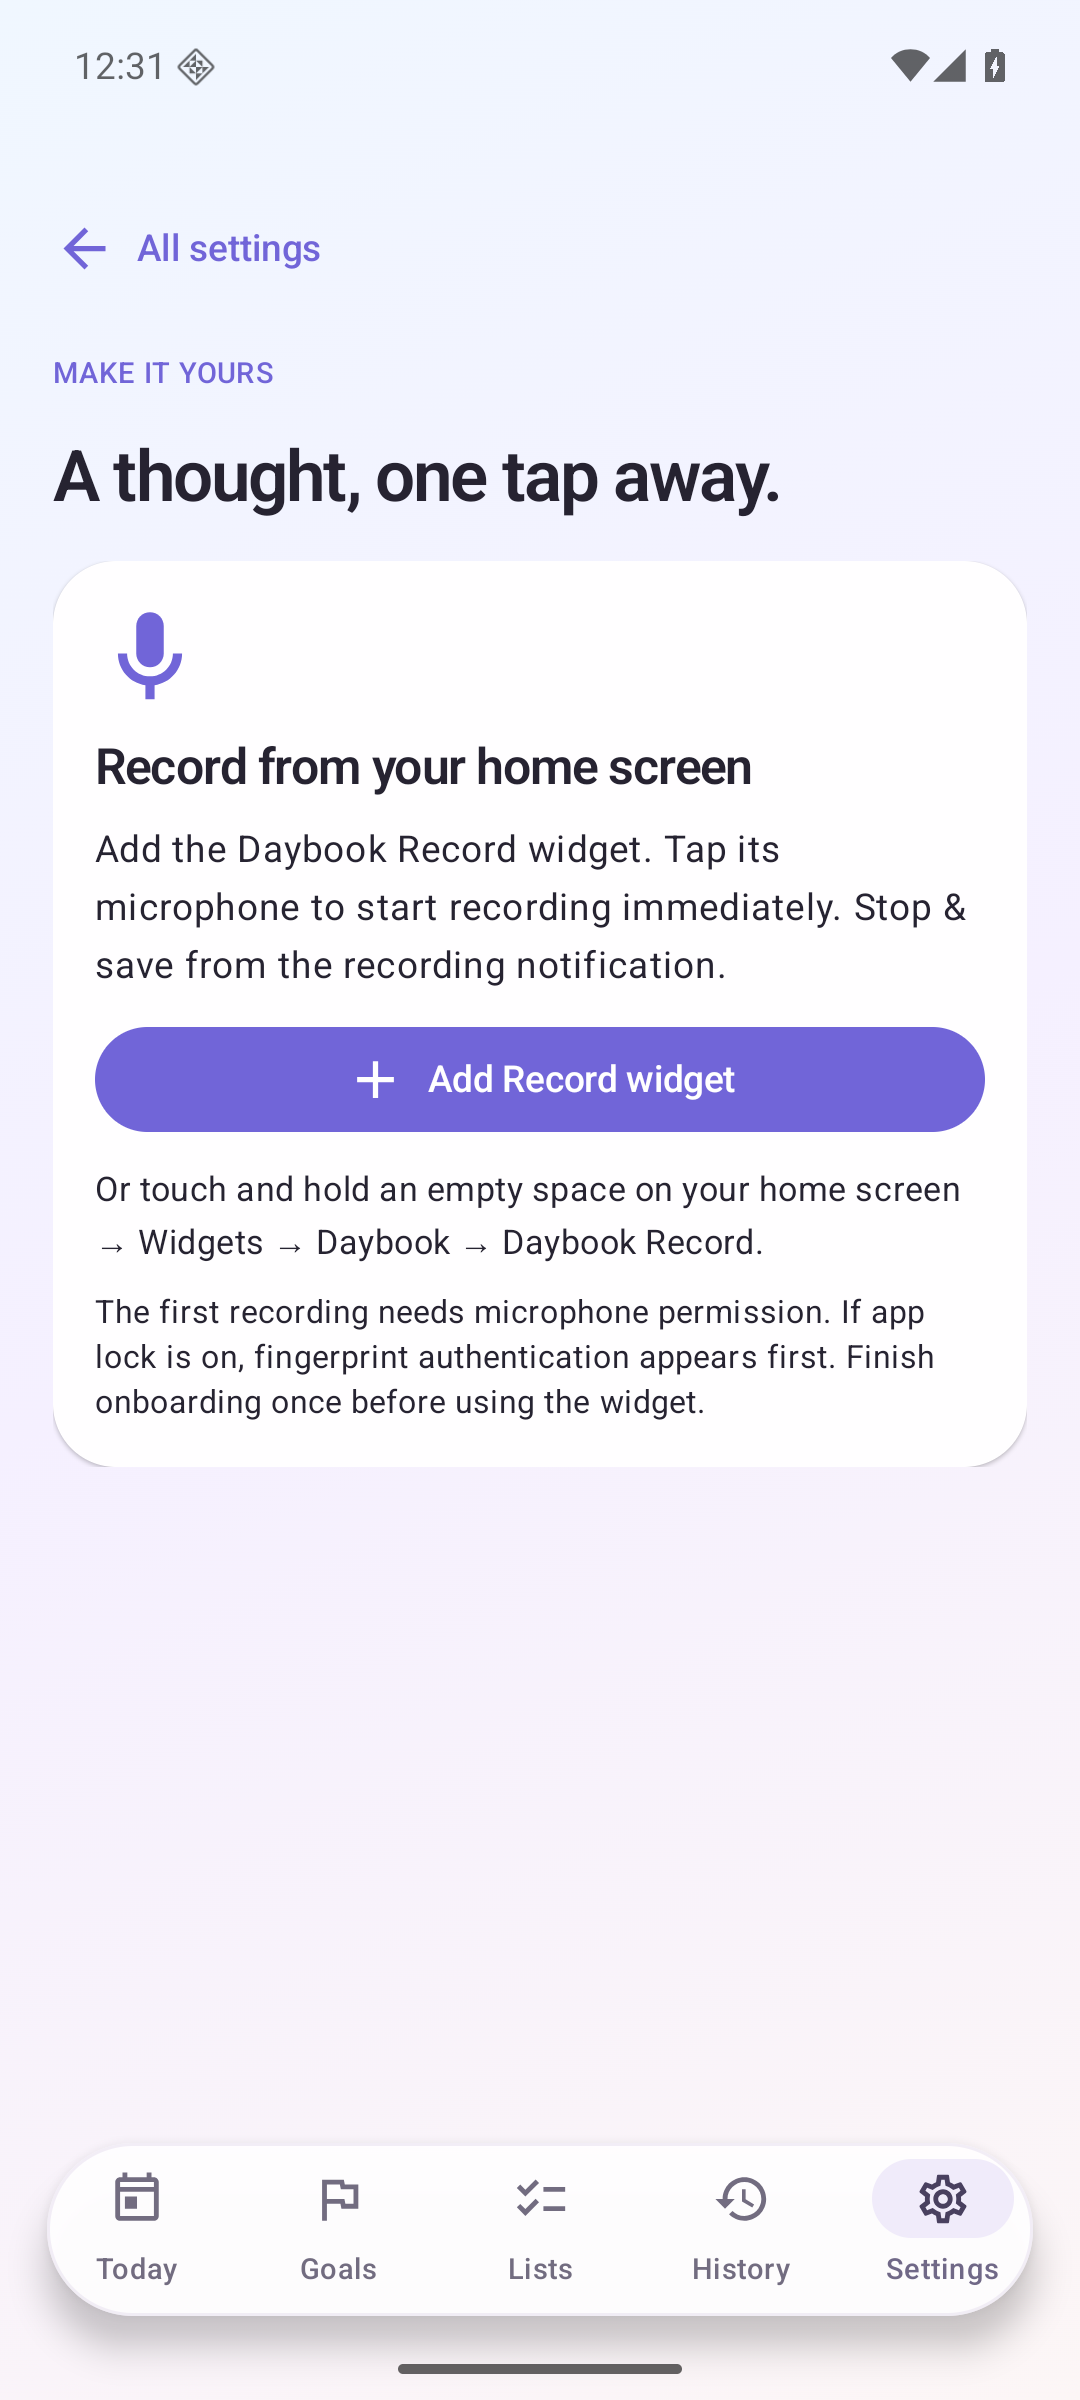
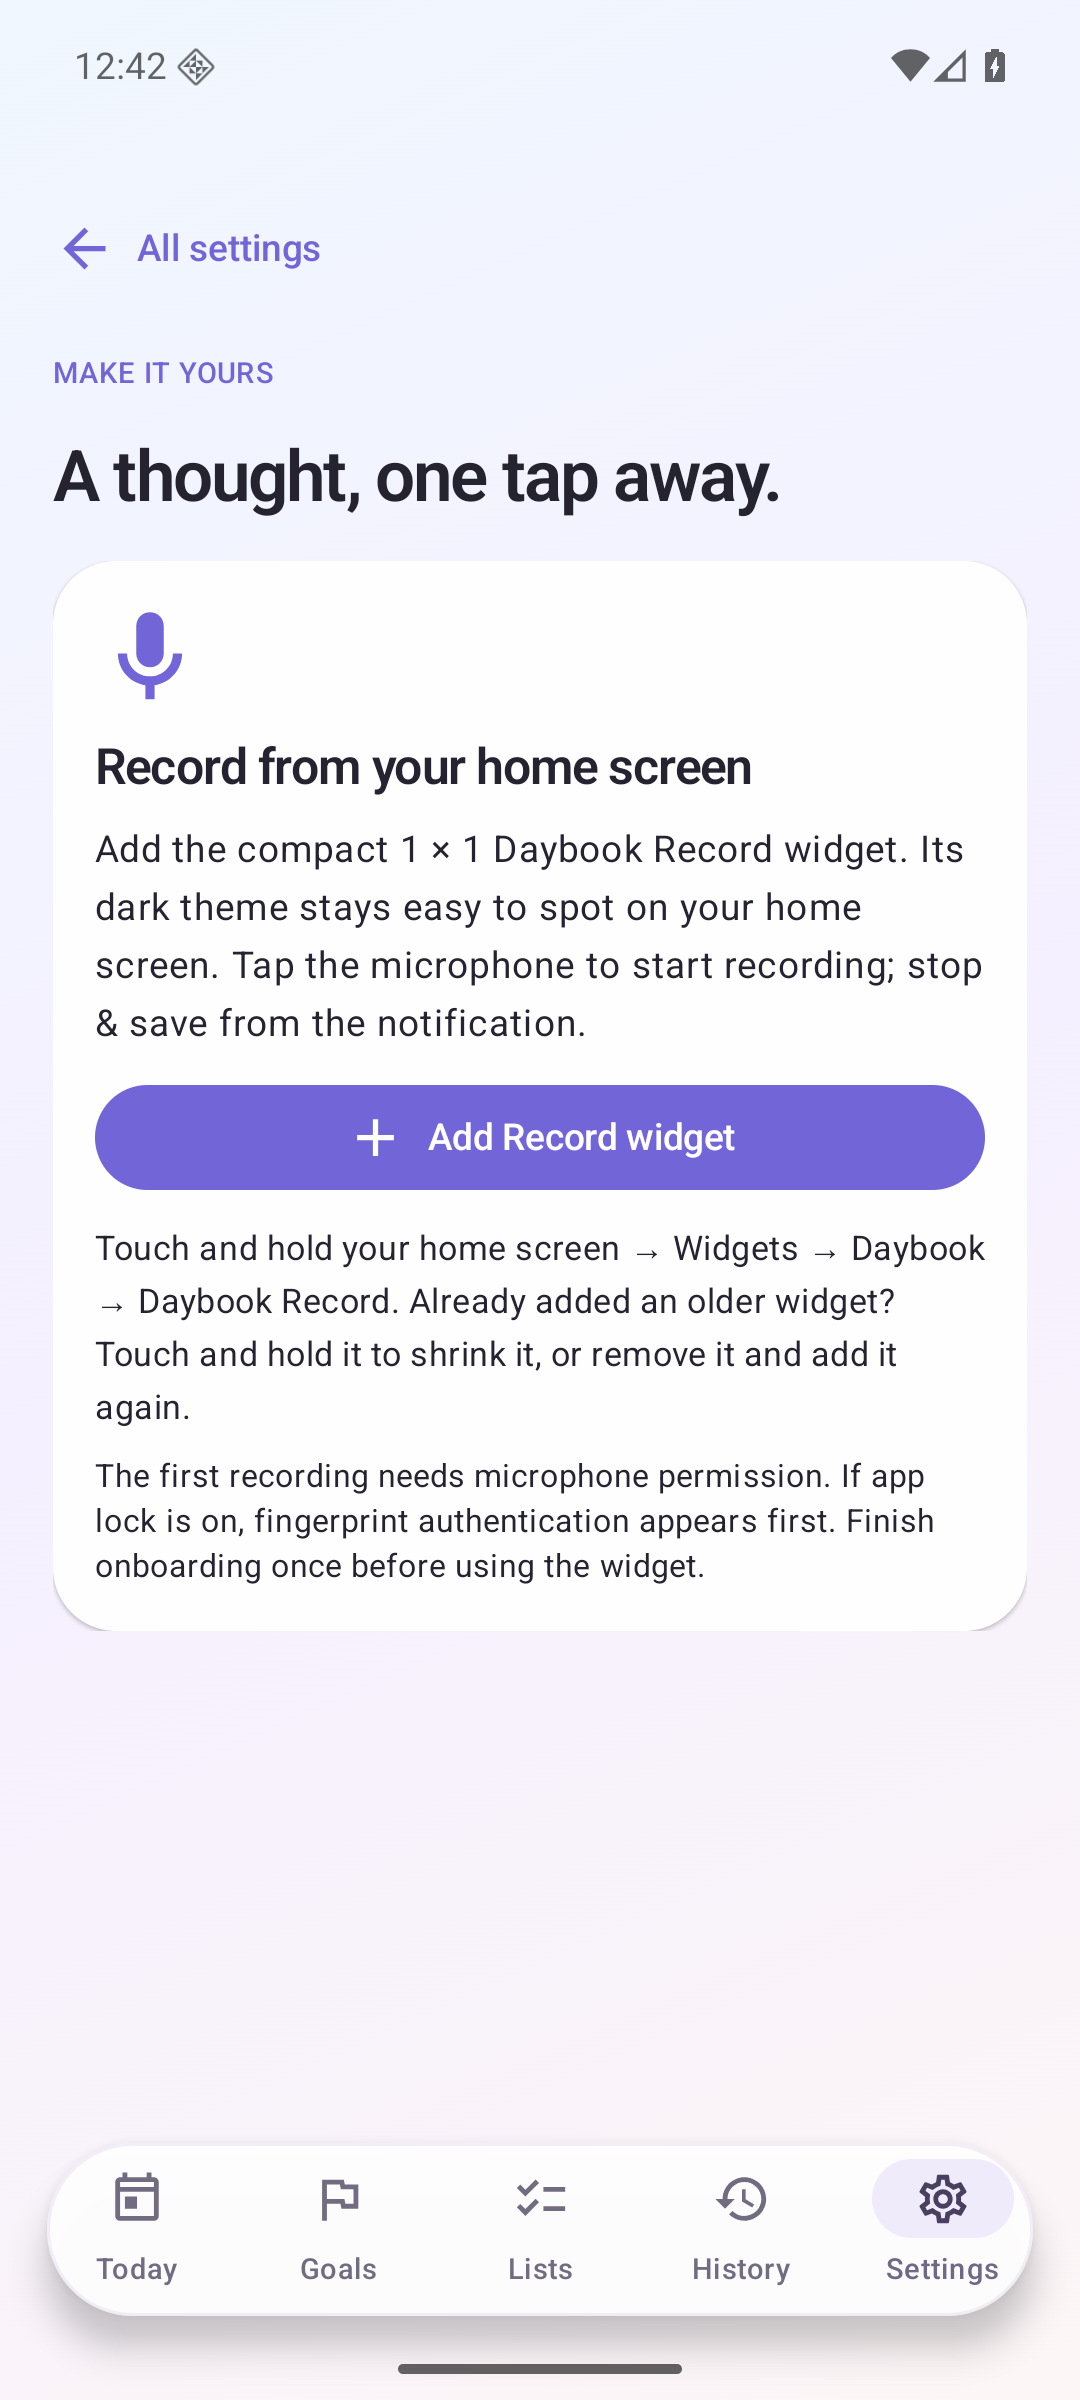
Make home-screen widgets compact and dark

Changed region(s): [[0.0917, 0.3438, 0.9167, 0.6562], [0.7333, 0.625, 0.7639, 0.6562], [0.1222, 0.0, 0.1528, 0.0312]]

diff --git a/app/src/main/java/dev/daybook/app/ui/SettingsScreens.kt b/app/src/main/java/dev/daybook/app/ui/SettingsScreens.kt
@@ -308,9 +308,9 @@ fun SettingsScreen(settings: Settings, hasKey: Boolean, modelReady: Boolean, mod
                 "widget" -> SectionCard {
                     Icon(Icons.Outlined.Mic, null, Modifier.size(42.dp), tint = MaterialTheme.colorScheme.primary)
                     Text("Record from your home screen", style = MaterialTheme.typography.titleLarge)
-                    Text("Add the Daybook Record widget. Tap its microphone to start recording immediately. Stop & save from the recording notification.")
+                    Text("Add the compact 1 × 1 Daybook Record widget. Its dark theme stays easy to spot on your home screen. Tap the microphone to start recording; stop & save from the notification.")
                     Button(onClick = onAddWidget, modifier = Modifier.fillMaxWidth()) { Icon(Icons.Outlined.Add, null); Spacer(Modifier.width(8.dp)); Text("Add Record widget") }
-                    Text("Or touch and hold an empty space on your home screen → Widgets → Daybook → Daybook Record.", style = MaterialTheme.typography.bodyMedium)
+                    Text("Touch and hold your home screen → Widgets → Daybook → Daybook Record. Already added an older widget? Touch and hold it to shrink it, or remove it and add it again.", style = MaterialTheme.typography.bodyMedium)
                     Text("The first recording needs microphone permission. If app lock is on, fingerprint authentication appears first. Finish onboarding once before using the widget.", style = MaterialTheme.typography.bodySmall)
                 }
             }

diff --git a/README.md b/README.md
@@ -12,7 +12,7 @@ Synthetic sample journal, captured from the running Android app. The meal illust
 
 ## Start on your phone
 
-1. Install `releases/daybook-0.4.0.apk`, or build the APK below. This is a signed, non-debuggable build for personal installation.
+1. Install `releases/daybook-0.4.1.apk`, or build the APK below. This is a signed, non-debuggable build for personal installation.
 2. Choose your waking hours, reminder interval, and nightly cleanup time during onboarding. Grant notification permission for check-ins.
 3. Download the English speech model (141 MB) once. Recording works before the download; saved recordings can be transcribed afterwards.
 4. Create goals from Goals → New goal. Templates include gym, cooking, laundry, blogging, learning, and 3000 calories.
@@ -55,11 +55,12 @@ Enable **Settings → Privacy & lock → Fingerprint & screen lock** to show And
 ### Record from your home screen
 
 - Open **Settings → Home-screen recording → Add Record widget**, then accept your launcher's Add prompt.
-- Or touch and hold an empty area on the home screen → **Widgets → Daybook → Daybook Record**. The larger three-action capture widget is also available.
+- Or touch and hold an empty area on the home screen → **Widgets → Daybook → Daybook Record**. Record is a compact 1 × 1 dark tile. A dark 3 × 1 Record/Write/Photo strip is also available.
 - Tap the microphone: Daybook opens and starts recording immediately, with no Start confirmation. If app lock is enabled, authenticate first. Grant microphone permission on the first recording and complete onboarding once.
 - Stop using **Stop & save** in the persistent recording notification or on Today. Repeated widget taps while recording do not create another recording.
+- After updating, touch and hold an existing widget to resize it, or remove/re-add it to apply the smaller default footprint. Removing a widget does not delete journal entries. Launcher cell sizes vary; [Android widget sizing](https://developer.android.com/develop/ui/views/appwidgets/layouts) describes the requested defaults.
 
-Install this APK over 0.1.0, 0.2.0, or 0.3.0 to retain existing notes and settings. It uses the same private signing key; no uninstall is needed.
+Install this APK over 0.1.0, 0.2.0, 0.3.0, or 0.4.0 to retain existing notes and settings. It uses the same private signing key; no uninstall is needed.
 
 ## Build
 

diff --git a/docs/verification.md b/docs/verification.md
@@ -1,6 +1,22 @@
 # Verification
 
-Current release: 0.4.0. Earlier release results are retained below for context.
+Current release: 0.4.1. Earlier release results are retained below for context.
+
+## 0.4.1 compact dark widget verification
+
+Completed on 2026-10-19 in the isolated Android 16 x86-64 emulator:
+
+- The existing `CaptureAndSettingsTest` suite passed all 3 checks, including direct recording without duplication, recreation, focused settings, and credential save/removal.
+- The actual home-screen Record widget updated to the dark appearance. Launcher resize reduced the old three-column instance to one cell; an actual tap started recording and **Stop & save recording** saved it.
+- The system pin dialog showed **1 × 1**, and a freshly added widget occupied one column. The widget picker showed both the dark **1 × 1 Record** tile and the dark **3 × 1 Record/Write/Photo** strip without clipped controls. Three widget/settings screenshots were inspected and saved.
+- Android lint passed with 0 errors and 34 warnings. The three additional button-bar style advisories concern the deliberately filled capture-widget actions.
+- Release and verification APK builds passed. The signed, non-debuggable release retained the existing signing certificate and passed 16 KiB ZIP alignment. It upgraded the personal 0.4.0 emulator package and cold-launched successfully.
+- No journal, inference, storage, or recording logic changed. The wider 0.4.0 checks below were not rerun for this widget styling update. Physical One UI sizing remains a phone check; existing widgets can retain their launcher-assigned footprint until resized or re-added.
+
+APK: `releases/daybook-0.4.1.apk` (66,736,501 bytes).
+
[1 lines of base64/hex data omitted]
+
 
 ## 0.4.0 on-device review verification
 

diff --git a/releases/README.md b/releases/README.md
@@ -1,6 +1,6 @@
 # Personal installation artifact
 
-`daybook-0.4.0.apk` is copied here after successful build and verification. APK binaries are local artifacts and are ignored by Git; source and the checksum record are committed.
+`daybook-0.4.1.apk` is copied here after successful build and verification. APK binaries are local artifacts and are ignored by Git; source and the checksum record are committed.
 
 This is a signed, non-debuggable personal APK for personal installation, with ARM64 and x86-64 native libraries. Keep the signing key at `.tools/signing/daybook.jks` and `.tools/signing/keystore.pass` on the original build machine for future updates. Changing the signing key requires uninstalling the old app, which removes its journal unless you export a full encrypted backup first.
 
